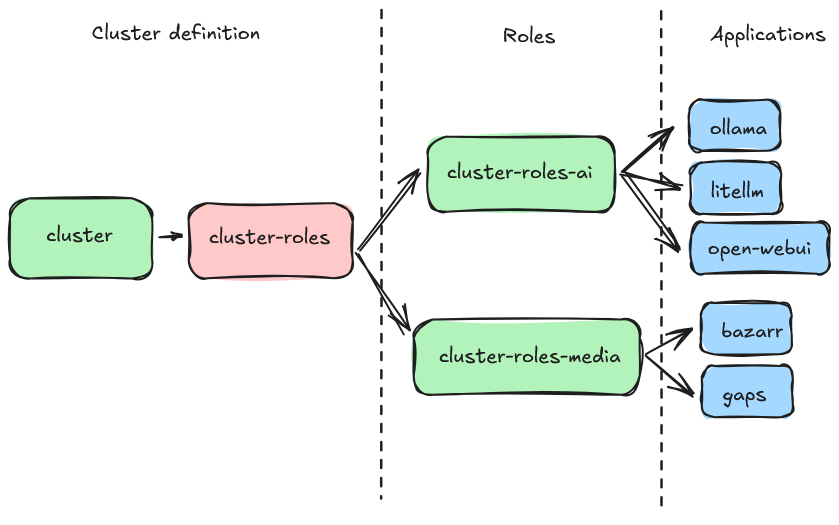
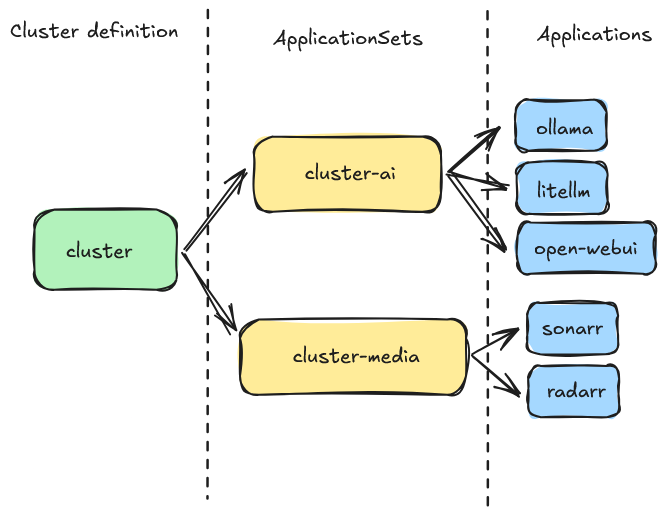
feat: Refactor repository structure to use ApplicationSet templates for functional groups

diff --git a/README.md b/README.md
@@ -1,14 +1,13 @@
 # OpenShift Argo CD Cluster Deployment Model
 
-This repository implements an Argo CD-based GitOps deployment model for OpenShift/OKD clusters. It provides a structured approach to deploying and managing applications across different functional domains through a hierarchical role-based system.
+This repository implements an Argo CD-based GitOps deployment model for OpenShift/OKD clusters. It provides a structured approach to deploying and managing applications across different functional domains through a simplified template-based system.
 
 ## Architecture Overview
 
-The deployment model follows a three-tier architecture:
+The deployment model follows a two-tier architecture:
 
-1. **Cluster Definition** (`/cluster`) - Bootstrap configuration and role management
-2. **Roles** (`/roles`) - Functional groupings that define which applications to deploy
-3. **Charts** (`/charts`) - Individual Helm charts for each application
+1. **Cluster Definition** (`/cluster`) - Bootstrap configuration and role templates
+2. **Charts** (`/charts`) - Individual Helm charts for each application organized by functional groups
 
 ![Hierarchy](docs/images/chart-hierarchy.png)
 
@@ -19,50 +18,42 @@ The deployment model follows a three-tier architecture:
 │   ├── Chart.yaml
 │   ├── values.yaml            # Cluster-wide configuration
 │   └── templates/
-│       └── roles.yaml
-├── roles/                     # Functional role definitions
-│   ├── ai/                    # AI/ML applications role
-│   │   ├── Chart.yaml
-│   │   └── templates/
-│   │       ├── litellm.yaml
-│   │       ├── ollama.yaml
-│   │       └── open-webui.yaml
-│   ├── media/                 # Media applications role
-│   │   ├── Chart.yaml
-│   │   └── templates/
-│   │       ├── bazarr.yaml
-│   │       └── gaps.yaml
-│   └── utilities/             # Utilities and system tools role
-│       ├── Chart.yaml
-│       └── templates/
-│   │       └── gaps.yaml
+│       ├── media.yaml         # Media applications ApplicationSet
+│       ├── ai.yaml            # AI/ML applications ApplicationSet
+│       └── utilities.yaml     # Utilities ApplicationSet
 └── charts/                    # Individual application Helm charts
     ├── ai/
     │   ├── litellm/           # LiteLLM proxy for LLM management
     │   ├── ollama/            # Local LLM runtime
     │   └── open-webui/        # Web UI for LLMs
-    └── media/
-        ├── bazarr/            # Subtitle management
-        └── gaps/              # Media gap detection
+    ├── media/
+    │   ├── bazarr/            # Subtitle management
+    │   ├── gaps/              # Media gap detection
+    │   └── kapowarr/          # Comic book management
+    └── utilities/
+        └── excalidraw/        # Whiteboard tool
 ```
 
 ## How It Works
 
 ### 1. Cluster Bootstrap
 
-The cluster bootstrap process starts by deploying the main cluster chart, which creates an Argo CD ApplicationSet that manages all defined roles.
+The cluster bootstrap process starts by deploying the main cluster chart, which creates Argo CD ApplicationSets for different functional domains.
 
 **Key file**: `cluster/values.yaml`
 
-- Iterates through roles defined and creates individual Argo CD Application for each role
-- All configuration values come from the `values.yaml` file
+- Contains cluster-wide configuration values
+- All applications inherit configuration through Helm value passthrough
 
-### 2. Role-Based Application Management
+### 2. Template-Based Application Management
 
-Each role represents a functional domain (AI/ML, Media, etc.) and contains:
+Each functional domain (AI/ML, Media, etc.) is managed by an ApplicationSet template in `cluster/templates/`:
 
-- **Chart.yaml**: Helm chart metadata for the role
-- **Templates**: Individual Argo CD Application definitions for each app in the role
+- **media.yaml**: ApplicationSet that manages media applications
+- **ai.yaml**: ApplicationSet that manages AI/ML applications
+- **utilities.yaml**: ApplicationSet that manages utility applications
+
+Each ApplicationSet template defines which applications to deploy from the corresponding `/charts` subdirectory.
 
 ### 3. Application Deployment
 
@@ -122,8 +113,8 @@ spec:
           value: "https://github.com/ullbergm/openshift/"
         - name: spec.source.targetRevision
           value: v2
-        - name: roles.utilities.enabled
-          value: "false"
+        - name: config.cluster.storage.config.storageClassName
+          value: "local-path"
     path: cluster
     repoURL: "https://github.com/ullbergm/openshift/"
     targetRevision: v2
@@ -151,15 +142,15 @@ spec:
 
 ### Adding a New Application
 
-1. Create a new Helm chart in the appropriate `/charts` subdirectory
-2. Add an Application definition in the corresponding role's templates
+1. Create a new Helm chart in the appropriate `/charts` subdirectory (e.g., `/charts/media/myapp/`)
+2. Add the application name to the corresponding ApplicationSet template in `/cluster/templates/`
 3. The application will be automatically deployed by Argo CD
 
-### Adding a New Role
+### Adding a New Functional Group
 
-1. Create a new directory in `/roles`
-2. Add the role to `cluster/values.yaml` roles list
-3. Create Application templates for the apps in that role
+1. Create a new ApplicationSet template in `/cluster/templates/` (e.g., `monitoring.yaml`)
+2. Define the list of applications for that functional group in the template
+3. Create the corresponding subdirectory in `/charts/` (e.g., `/charts/monitoring/`)
 
 ## Maintenance
 

diff --git a/.github/instructions/adding-a-role.instructions.md b/.github/instructions/adding-a-role.instructions.md
@@ -2,54 +2,83 @@
 applyTo: "**"
 ---
 
-# Adding a New Role to the OpenShift Repository
+# Adding a New Functional Group to the OpenShift Repository
 
 When the user asks to "add a role", "create a role", "add a new role", or mentions creating functional groupings for applications, automatically follow these steps:
 
-## Steps to Add a New Role
+## Steps to Add a New Functional Group
 
-1. **Create Role Directory Structure**
+1. **Create ApplicationSet Template**
 
-   - Create a new directory for the role under `roles/`
-   - Directory name should match the functional domain (e.g., `ai`, `media`, `development`, `monitoring`)
+   - Create a new ApplicationSet template file in `cluster/templates/` (e.g., `monitoring.yaml`)
+   - File name should match the functional domain (e.g., `ai.yaml`, `media.yaml`, `monitoring.yaml`)
 
-2. **Create Chart.yaml**
+2. **Create ApplicationSet Template Content**
 
-   - Inside the new role directory, create a `Chart.yaml` file with the following template:
+   - Use the following template structure:
 
    ```yaml
-   apiVersion: v2
-   description: A Helm chart for the [ROLE_NAME] role
-   name: [ROLE_NAME]
-   version: 1.0.0
-   kubeVersion: ">=1.22.0-0"
-
-   maintainers:
-     - name: Magnus Ullberg
-       email: magnus@ullberg.us
+   apiVersion: argoproj.io/v1alpha1
+   kind: ApplicationSet
+   metadata:
+     name: {{ .Release.Name }}-[GROUP_NAME]
+   spec:
+     ignoreApplicationDifferences:
+       - jsonPointers:
+           - /spec/syncPolicy
+     goTemplate: true
+     generators:
+       - list:
+           elements:
+           - name: [APP_NAME_1]
+           - name: [APP_NAME_2]
+     template:
+       metadata:
+         name: '{{ "{{" }} .name {{ "}}" }}'
+         namespace: "openshift-gitops"
+       spec:
+         ignoreDifferences:
+         - kind: Application
+           group: argoproj.io
+           jsonPointers:
+           - /spec/syncPolicy
+         project: default
+         destination:
+           server: {{ .Values.spec.destination.server }}
+           namespace: "openshift-gitops"
+         syncPolicy:
+           automated:
+             prune: true
+             selfHeal: true
+         source:
+           repoURL: {{ .Values.spec.source.repoURL }}
+           path: charts/{{ "{{" }} default "[GROUP_NAME]" .group {{ "}}" }}/{{ "{{" }} .name {{ "}}" }}
+           targetRevision: {{ .Values.spec.source.targetRevision }}
+           helm:
+             valuesObject:
+               spec:
+   {{ .Values.spec | toYaml | nindent 14 }}
+   {{ .Values.config | toYaml | nindent 12 }}
    ```
 
-3. **Create Templates Directory**
+3. **Create Charts Directory**
 
-   - Create a `templates/` directory within the role directory
-   - This will contain YAML files for each application in this role
+   - Create a corresponding directory in `/charts/` (e.g., `/charts/monitoring/`)
+   - This will contain individual Helm charts for each application in this functional group
 
 4. **Update README.md**
 
-   - Add information about the new role in the repository structure section
-   - Include a brief description of what applications this role manages
+   - Add information about the new functional group in the repository structure section
+   - Include a brief description of what applications this group manages
 
-5. **Update Cluster Values (Optional but Recommended)**
-   - Add the new role to the roles list in `/cluster/values.yaml`
-   - This enables the role in the cluster deployment
+## Functional Group Naming Conventions
 
-## Role Naming Conventions
-
-- Use lowercase names
-- Use descriptive functional names (e.g., `ai`, `media`, `monitoring`, `development`)
+- Use lowercase names for template files
+- Use descriptive functional names (e.g., `ai.yaml`, `media.yaml`, `monitoring.yaml`)
 - Avoid abbreviations when possible
+- Template file names should match the charts subdirectory names
 
-## Example Role Categories
+## Example Functional Group Categories
 
 - `ai` - AI/ML applications (LLMs, training tools, inference servers)
 - `media` - Media management (Plex, Sonarr, Radarr, etc.)
@@ -58,3 +87,4 @@ When the user asks to "add a role", "create a role", "add a new role", or mentio
 - `security` - Security tools (scanners, secrets management)
 - `networking` - Network utilities and tools
 - `storage` - Storage management and backup tools
+- `utilities` - General utility applications

diff --git a/.github/copilot-instructions.md b/.github/copilot-instructions.md
@@ -8,18 +8,17 @@ This is a GitOps-managed Kubernetes home cluster running on OpenShift with Argo 
 
 ### Core Directories
 
-- **`charts/`** - Kubernetes helm charts for all the applications
-- **`roles/`** - Role definitions for deploying groups of applications to the cluster
-- **`cluster/`** - Cluster definition, roles setting in the `values.yaml` file defines which roles are imported from the `roles/` folder
+- **`charts/`** - Kubernetes helm charts for all the applications organized by functional groups
+- **`cluster/`** - Cluster definition and ApplicationSet templates for functional groups
 - **`docs/`** - Documentation
 - **`.taskfiles/`** - Task file definitions
 
 ## Key Patterns
 
-### Role-Based Application Management
+### Template-Based Application Management
 
-- Each role in `roles/` contains templates with Argo CD Application definitions
-- Role enablement controlled via `cluster/values.yaml` (e.g., `roles.ai.enabled: true`)
+- Each functional group is managed by an ApplicationSet template in `cluster/templates/` (e.g., `media.yaml`, `ai.yaml`)
+- ApplicationSets define which applications to deploy from the corresponding `/charts` subdirectory
 - Applications automatically inherit cluster-wide configuration via Helm value passthrough
 
 ### Application Structure Standards
@@ -37,12 +36,12 @@ Every application chart follows these conventions:
 Applications receive cluster config through values passthrough:
 
 ```yaml
-# In role templates (e.g., roles/ai/templates/ollama.yaml)
+# In ApplicationSet templates (e.g., cluster/templates/ai.yaml)
 helm:
   valuesObject:
-{{- with .Values }}
-  {{. | toYaml | nindent 10 }}
-{{- end }}
+    spec:
+{{ .Values.spec | toYaml | nindent 14 }}
+{{ .Values.config | toYaml | nindent 12 }}
 ```
 
 ### Storage Patterns
@@ -69,7 +68,7 @@ helm:
 
 1. Create namespace directory under `/charts/<group>/<app>/`
 2. Create application helm chart
-3. Add Application definition in `roles/[role]/templates/[app-name].yaml`
+3. Add Application definition in `cluster/templates/[group].yaml` ApplicationSet
 
 ## OpenShift-Specific Requirements
 
@@ -141,9 +140,8 @@ serviceAccountName: { { .Release.Name } }
 
 ## Critical Files
 
-- `cluster/values.yaml` - Global configuration and role enablement
-- `cluster/templates/roles.yaml` - ApplicationSet that manages all roles
-- `roles/*/templates/*.yaml` - Individual Application definitions
+- `cluster/values.yaml` - Global configuration
+- `cluster/templates/<group>.yaml` - ApplicationSet templates for each functional group
 - `charts/*/templates/` - Kubernetes manifests for each application
 
 ## Important Notes
@@ -152,7 +150,7 @@ serviceAccountName: { { .Release.Name } }
 - Never commit unencrypted secrets.
 - Follow the documented directory and naming conventions to ensure consistency.
 - Validate Helm charts and manifests locally before pushing changes.
-- Use role enablement flags in `cluster/values.yaml` to control application deployment.
+- Applications are managed through ApplicationSet templates in `cluster/templates/`.
 - Backup critical cluster state and application data using the integrated Kasten solution.
 - Review and update SecurityContextConstraints and Routes when upgrading OpenShift versions.
 - Document any manual interventions or exceptions in the `docs/` directory.

diff --git a/.github/instructions/app-finder.instructions.md b/.github/instructions/app-finder.instructions.md
@@ -17,13 +17,13 @@ Your core responsibilities:
    - Argo CD for GitOps deployment
    - OpenShift cluster
    - Specific directory structure (charts/group/[app-name]/)
-   - Roles group apps together (roles/group)
-   - Clusters are assigned roles (cluster/values)
+   - Functional groups managed by ApplicationSet templates (cluster/templates/group.yaml)
+   - Applications inherit cluster configuration via Helm value passthrough
 
 3. **Adaptation Guidance**: When presenting configurations, explain how to adapt them to fit the cluster-template structure:
 
-   - Convert raw manifests to HelmReleases when appropriate in the charts folder
-   - Identify which role the application should belong to
+   - Convert raw manifests to Helm charts in the appropriate charts folder
+   - Identify which functional group the application should belong to
    - Highlight any dependencies or prerequisites
    - Note any required secrets or configmaps
    - Suggest appropriate resource limits and requests

diff --git a/docs/standards-check.md b/docs/standards-check.md
@@ -15,8 +15,8 @@ This report analyzes the OpenShift cluster repository against the documented sta
 ### 1. Repository Structure Standards
 
 - **Charts Directory**: All applications properly organized under `charts/{group}/{app}/`
-- **Roles Directory**: Proper role-based grouping with ai, media, and utilities roles
-- **Cluster Configuration**: Well-structured cluster definition with role enablement
+- **Template Structure**: Proper functional group management via ApplicationSet templates in `cluster/templates/`
+- **Cluster Configuration**: Well-structured cluster definition with global configuration
 - **Documentation**: Comprehensive documentation in `docs/` and `.github/`
 
 ### 2. Application Structure Standards

diff --git a/docs/vscode-helm-config.md b/docs/vscode-helm-config.md
@@ -7,7 +7,7 @@ This workspace is configured to properly handle Helm template files without brea
 ### 1. File Associations
 
 - Files in `charts/**/templates/*.yaml` are treated as `helm` files
-- Files in `roles/**/templates/*.yaml` are treated as `helm` files
+- Files in `cluster/templates/*.yaml` are treated as `helm` files
 
 ### 2. Helm File Settings
 
